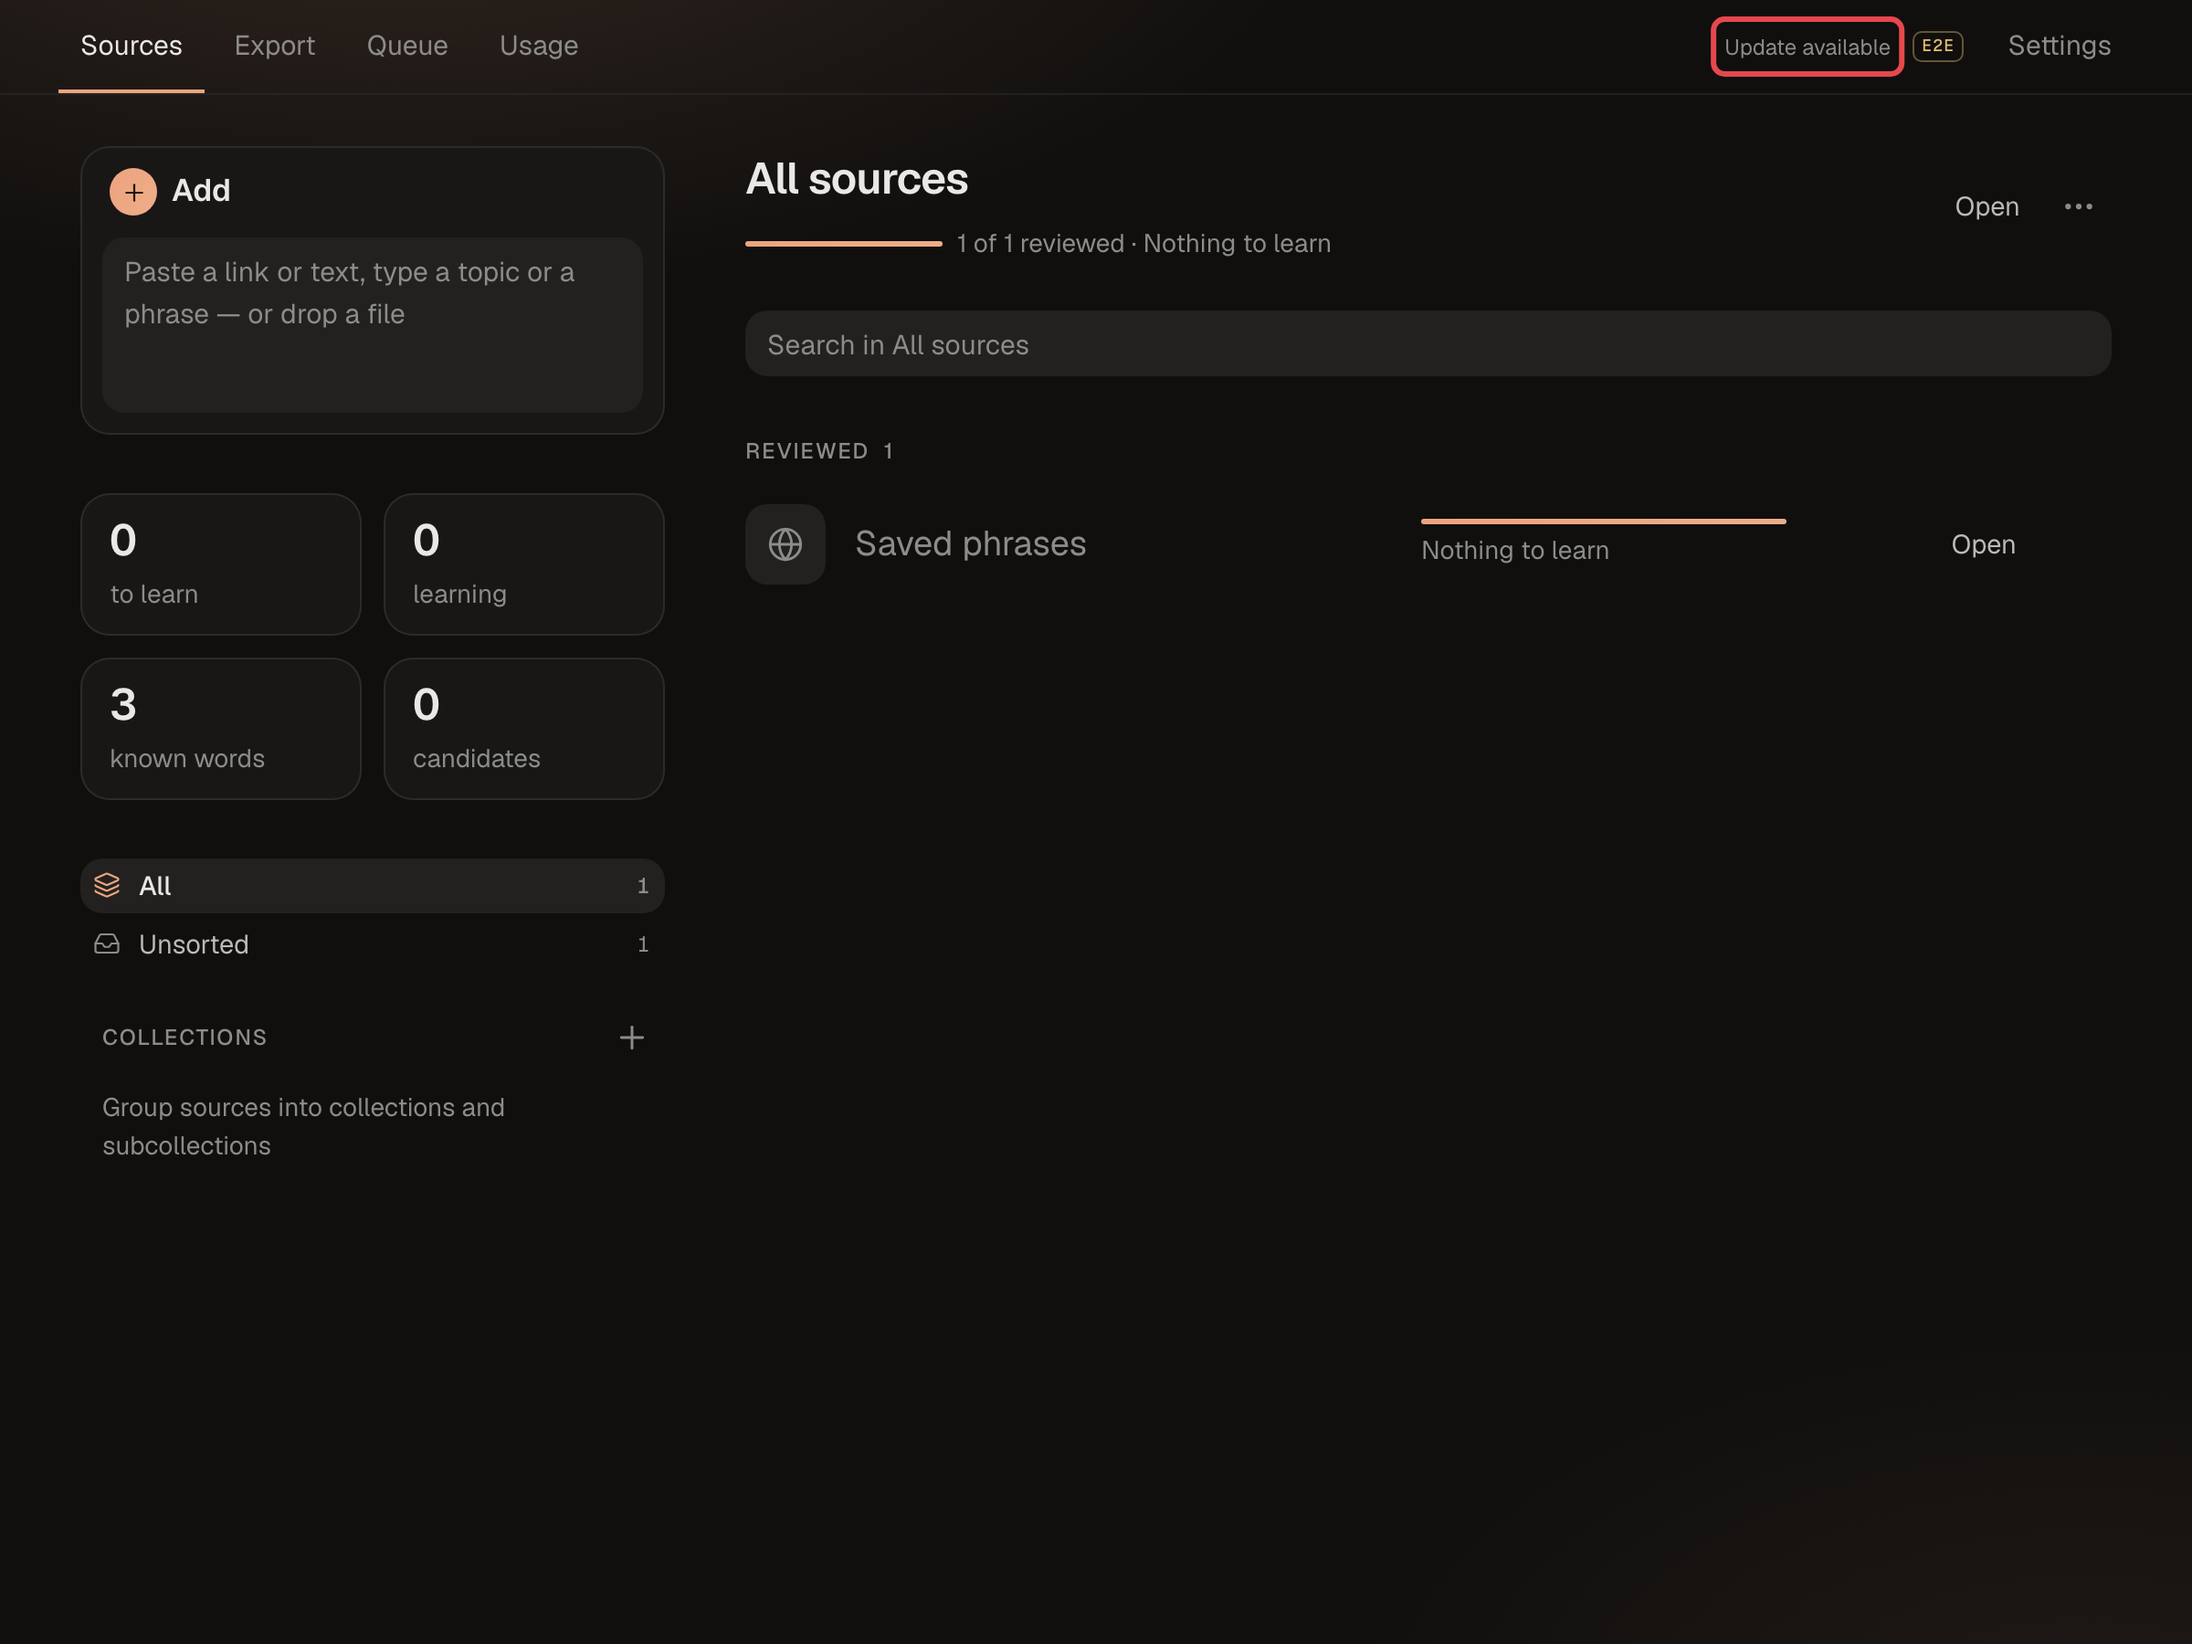
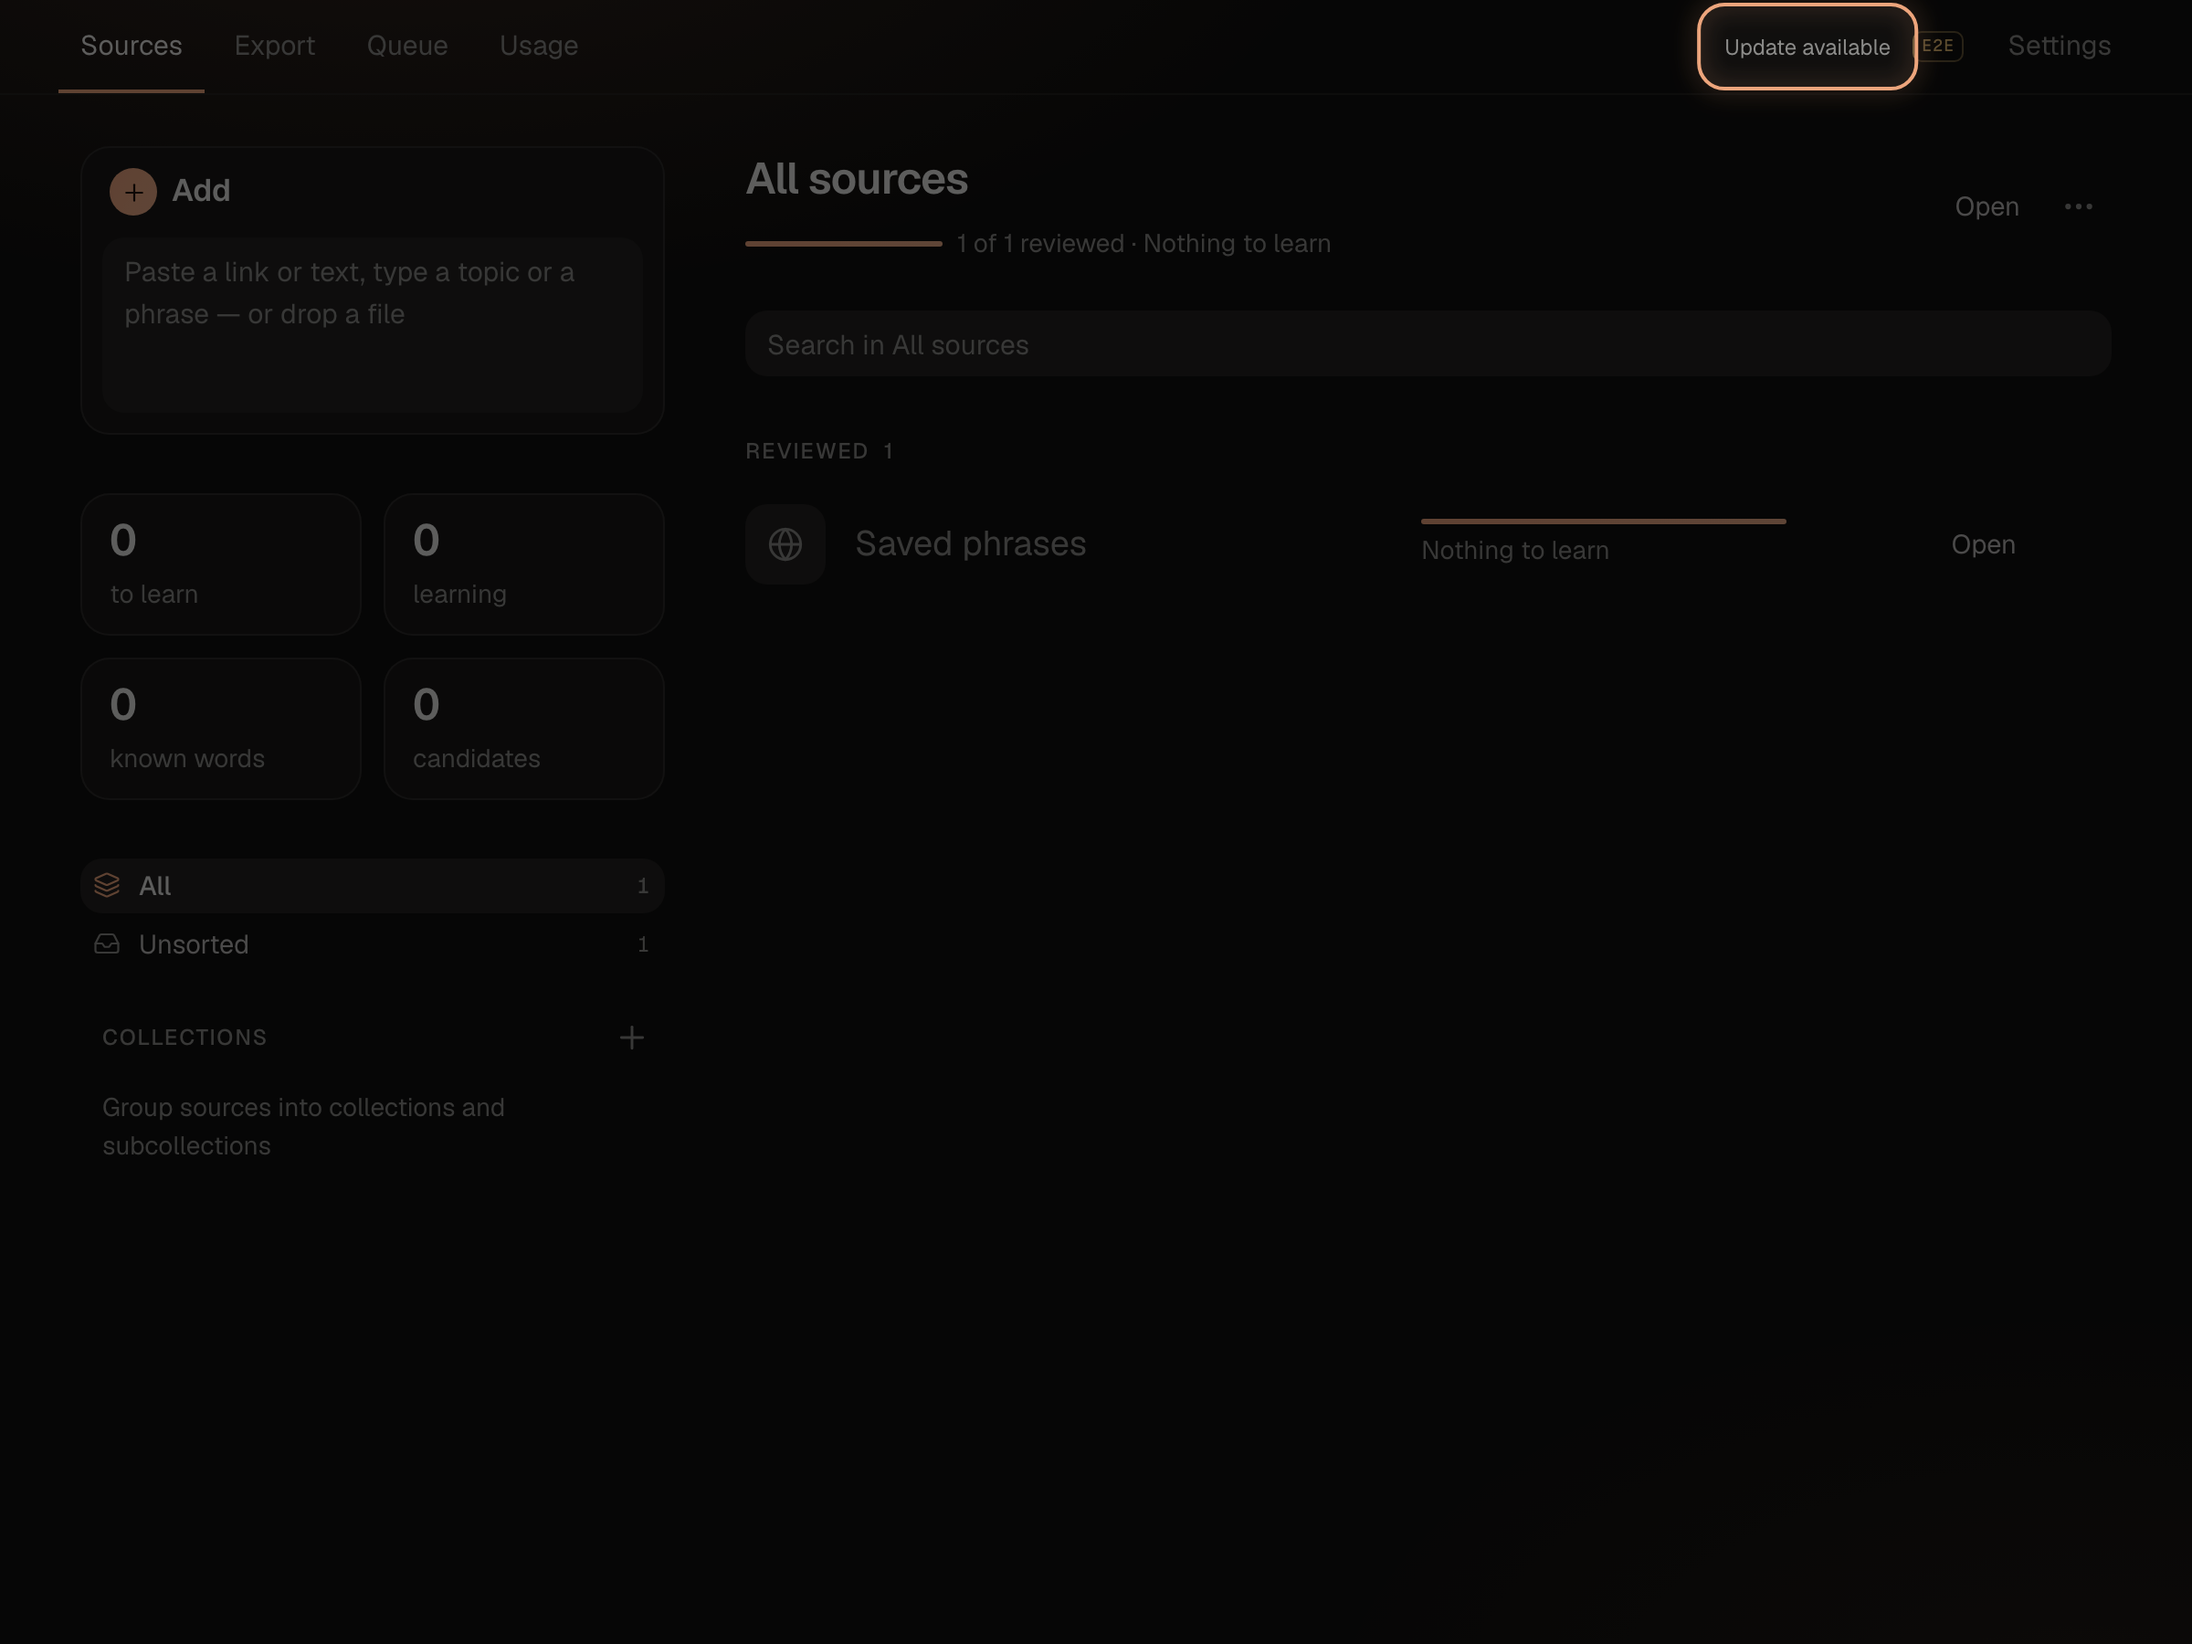
docs: highlight screenshots in the app's own style

diff --git a/.claude/skills/release/annotate.js b/.claude/skills/release/annotate.js
@@ -1,18 +1,21 @@
-// Draws an arrow or a frame over an element before a screenshot.
-// Inject with the page's evaluate, then call window.__annotate({selector, kind, label}).
+// Points at an element before a screenshot: the rest of the page is dimmed, the element keeps
+// its light and gets a soft ring in the app's accent colour; an optional caption sits next to it
+// in the app's own type. Inject with the page's evaluate, then call
+// window.__annotate({selector, label}).
 (() => {
-  const COLOR = '#e5484d'
-  const STROKE = 3
-  const PAD = 6
-  const ARROW_LENGTH = 70
-  const ARROW_HEAD = 14
-  const LABEL_SIZE = 16
-  // Room between a label and what it points at.
-  const LABEL_GAP = 8
+  // How much the page around the element is dimmed.
+  const DIM = 0.6
+  // Room between the element and the ring.
+  const PAD = 14
+  const RADIUS = 14
+  const RING = 2
+  const GLOW = 12
+  const CAPTION_SIZE = 14
+  const CAPTION_PAD_X = 12
+  const CAPTION_PAD_Y = 7
+  const CAPTION_GAP = 12
   // Nothing is drawn closer than this to the viewport's edge.
-  const MARGIN = 8
-  // How far right the arrow's tail leans, as a share of its length.
-  const ARROW_SLANT = 0.6
+  const MARGIN = 12
   const OVERLAY_ID = '__annotations'
   const SVG_NS = 'http://www.w3.org/2000/svg'
 
@@ -22,79 +25,61 @@
     return node
   }
 
-  const overlay = () => {
-    let root = document.getElementById(OVERLAY_ID)
-    if (root) return root
-    root = svg('svg', { id: OVERLAY_ID, width: '100%', height: '100%' })
-    root.style.cssText = 'position:fixed;inset:0;pointer-events:none;z-index:2147483647'
-    document.body.appendChild(root)
-    return root
-  }
-
-  // Every label sits inside the viewport and off the target: below it when there is room,
-  // otherwise above it.
-  const label = (root, text, box, anchorX, anchorY) => {
-    if (!text) return
-    const node = svg('text', {
-      x: 0, y: 0, fill: COLOR, 'font-size': LABEL_SIZE, 'font-weight': 600,
-      'font-family': 'system-ui, sans-serif', 'paint-order': 'stroke', stroke: '#fff', 'stroke-width': 4,
-    })
-    node.textContent = text
-    root.appendChild(node)
-    const { width, height } = node.getBBox()
-    const x = clamp(anchorX, MARGIN, window.innerWidth - MARGIN - width)
-    let y = clamp(anchorY, MARGIN + height, window.innerHeight - MARGIN)
-    if (overlaps({ left: x, right: x + width, top: y - height, bottom: y }, box)) {
-      const above = box.top - PAD - LABEL_GAP
-      const below = box.bottom + PAD + LABEL_GAP + height
-      y = above - height >= MARGIN ? above : clamp(below, MARGIN + height, window.innerHeight - MARGIN)
-    }
-    node.setAttribute('x', String(x))
-    node.setAttribute('y', String(y))
-  }
+  const token = (name) => getComputedStyle(document.documentElement).getPropertyValue(name).trim()
 
   const clamp = (value, min, max) => Math.max(min, Math.min(value, max))
 
-  const overlaps = (a, b) =>
-    a.left < b.right + PAD && a.right > b.left - PAD && a.top < b.bottom + PAD && a.bottom > b.top - PAD
-
-  const frame = (root, box, text) => {
+  const spotlight = (root, hole, accent) => {
+    const mask = svg('mask', { id: `${OVERLAY_ID}-hole` })
+    mask.appendChild(svg('rect', { x: 0, y: 0, width: '100%', height: '100%', fill: '#fff' }))
+    mask.appendChild(svg('rect', { ...hole, rx: RADIUS, fill: '#000' }))
+    const glow = svg('filter', { id: `${OVERLAY_ID}-glow`, x: '-50%', y: '-50%', width: '200%', height: '200%' })
+    glow.appendChild(svg('feDropShadow', { dx: 0, dy: 0, stdDeviation: GLOW / 2, 'flood-color': accent, 'flood-opacity': 0.6 }))
+    const defs = svg('defs', {})
+    defs.append(mask, glow)
+    root.appendChild(defs)
     root.appendChild(svg('rect', {
-      x: box.left - PAD, y: box.top - PAD, width: box.width + 2 * PAD, height: box.height + 2 * PAD,
-      rx: 6, fill: 'none', stroke: COLOR, 'stroke-width': STROKE,
+      x: 0, y: 0, width: '100%', height: '100%', fill: '#000', 'fill-opacity': DIM, mask: `url(#${OVERLAY_ID}-hole)`,
     }))
-    label(root, text, box, box.left - PAD, box.top - PAD - LABEL_GAP)
+    root.appendChild(svg('rect', {
+      ...hole, rx: RADIUS, fill: 'none', stroke: accent, 'stroke-width': RING, filter: `url(#${OVERLAY_ID}-glow)`,
+    }))
   }
 
-  // The arrow comes from below the target, or from above when the target is near the bottom.
-  const arrow = (root, box, text) => {
-    const fromBelow = box.bottom + PAD + ARROW_LENGTH + LABEL_SIZE + MARGIN <= window.innerHeight
-    const tipX = box.left + box.width / 2
-    const tipY = fromBelow ? box.bottom + PAD : box.top - PAD
-    const tailX = clamp(tipX + ARROW_LENGTH * ARROW_SLANT, MARGIN, window.innerWidth - MARGIN)
-    const tailY = fromBelow ? tipY + ARROW_LENGTH : tipY - ARROW_LENGTH
-    root.appendChild(svg('line', {
-      x1: tailX, y1: tailY, x2: tipX, y2: tipY, stroke: COLOR, 'stroke-width': STROKE, 'stroke-linecap': 'round',
-    }))
-    const angle = Math.atan2(tipY - tailY, tipX - tailX)
-    const wing = (offset) => [
-      tipX - ARROW_HEAD * Math.cos(angle + offset),
-      tipY - ARROW_HEAD * Math.sin(angle + offset),
-    ]
-    const [ax, ay] = wing(Math.PI / 6)
-    const [bx, by] = wing(-Math.PI / 6)
-    root.appendChild(svg('polygon', { points: `${tipX},${tipY} ${ax},${ay} ${bx},${by}`, fill: COLOR }))
-    label(root, text, box, tailX + LABEL_GAP, fromBelow ? tailY + LABEL_SIZE : tailY - LABEL_GAP)
+  // The caption sits below the element when there is room, otherwise above it.
+  const caption = (root, text, hole) => {
+    if (!text) return
+    const group = svg('g', {})
+    const pill = svg('rect', { rx: 8, fill: token('--card'), stroke: token('--line'), 'stroke-width': 1 })
+    const words = svg('text', {
+      fill: token('--tx'), 'font-size': CAPTION_SIZE, 'font-weight': 500,
+      'font-family': getComputedStyle(document.body).fontFamily, 'dominant-baseline': 'middle',
+    })
+    words.textContent = text
+    group.append(pill, words)
+    root.appendChild(group)
+    const width = words.getBBox().width + 2 * CAPTION_PAD_X
+    const height = CAPTION_SIZE + 2 * CAPTION_PAD_Y
+    const x = clamp(hole.x, MARGIN, window.innerWidth - MARGIN - width)
+    const below = hole.y + hole.height + CAPTION_GAP
+    const y = below + height <= window.innerHeight - MARGIN ? below : hole.y - CAPTION_GAP - height
+    Object.entries({ x, y, width, height }).forEach(([key, value]) => pill.setAttribute(key, String(value)))
+    words.setAttribute('x', String(x + CAPTION_PAD_X))
+    words.setAttribute('y', String(y + height / 2))
   }
 
-  window.__annotate = ({ selector, kind = 'arrow', label: text }) => {
+  window.__annotate = ({ selector, label: text }) => {
     const target = document.querySelector(selector)
     if (!target) throw new Error(`annotate: no element for ${selector}`)
     target.scrollIntoView({ block: 'center', inline: 'center' })
     const box = target.getBoundingClientRect()
-    const root = overlay()
-    if (kind === 'frame') frame(root, box, text)
-    else arrow(root, box, text)
+    window.__clearAnnotations()
+    const root = svg('svg', { id: OVERLAY_ID, width: '100%', height: '100%' })
+    root.style.cssText = 'position:fixed;inset:0;pointer-events:none;z-index:2147483647'
+    document.body.appendChild(root)
+    const hole = { x: box.left - PAD, y: box.top - PAD, width: box.width + 2 * PAD, height: box.height + 2 * PAD }
+    spotlight(root, hole, token('--ac'))
+    caption(root, text, hole)
   }
 
   window.__clearAnnotations = () => document.getElementById(OVERLAY_ID)?.remove()

diff --git a/.claude/skills/release/SKILL.md b/.claude/skills/release/SKILL.md
@@ -90,10 +90,10 @@ If they differ, ask Max to restart the dev copy and wait. Do not restart it your
 
 - Use a headless browser (Playwright or similar). Never the browser pane Max is watching.
 - Every big feature and every notable item gets a screenshot.
-- On each screenshot draw an arrow or a frame where to look, with `annotate.js` from this folder. Inject the file into the page, then call it before the screenshot:
+- On each screenshot highlight where to look with `annotate.js` from this folder: it dims the rest of the page and rings the element in the app's accent colour, with an optional caption in the app's font. Never draw red frames or outlined text. Inject the file into the page, then call it before the screenshot:
 
 ```js
-window.__annotate({ selector: '[data-testid="…"]', kind: 'frame', label: 'Optional text' })  // or kind: 'arrow'
+window.__annotate({ selector: '[data-testid="…"]', label: 'Optional caption' })
 // take the screenshot
 window.__clearAnnotations()
 ```
